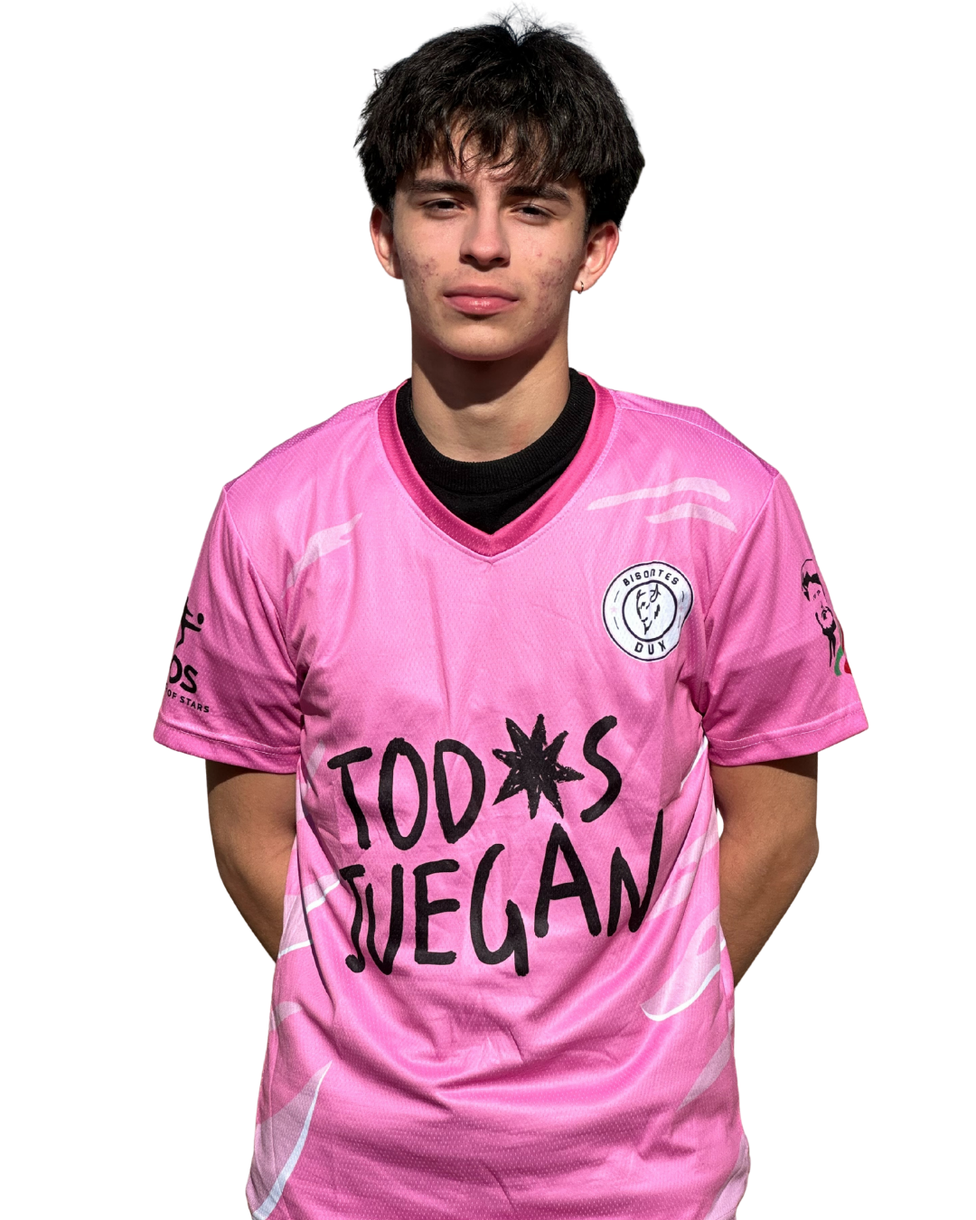
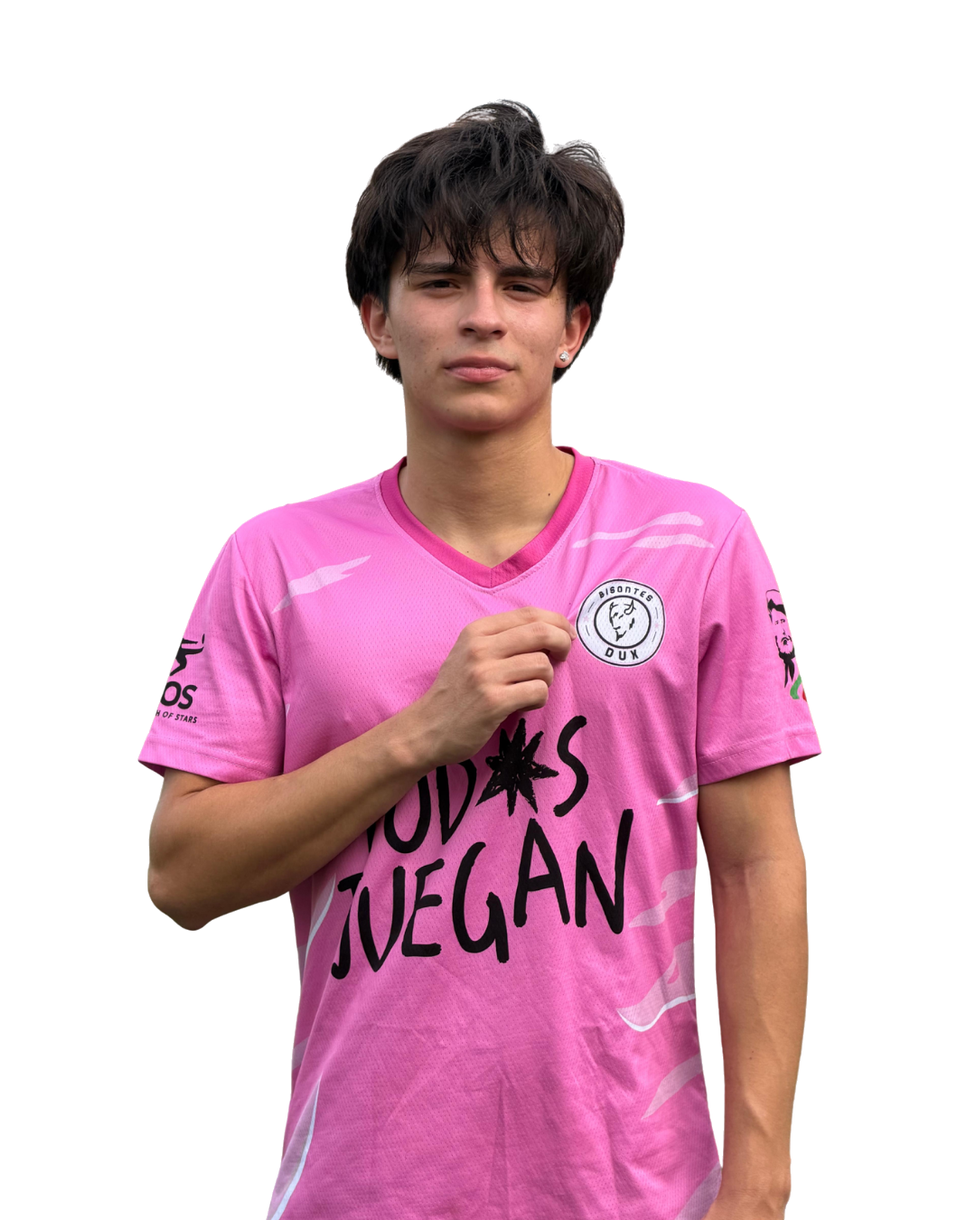
web: fotos nuevas de los dorsales 7, 11, 17, 42, 67 y 69
Fondo blanco convertido a transparente y versión WebP 720x900.

diff --git a/jugadores/dani-floria/index.html b/jugadores/dani-floria/index.html
@@ -14,19 +14,19 @@
   <meta property="og:url" content="https://urpito.github.io/BisontesDUX/jugadores/dani-floria/" />
   <meta property="og:title" content="Dani Floria - Jugador de Bisontes DUX | Perfil oficial" />
   <meta property="og:description" content="Perfil oficial de Dani Floria, jugador de Bisontes DUX. Información sobre su participación en la plantilla, posición y dorsal." />
-  <meta property="og:image" content="https://urpito.github.io/BisontesDUX/assets/logo.png" />
+  <meta property="og:image" content="https://urpito.github.io/BisontesDUX/assets/jugador42.png" />
   <meta property="og:image:alt" content="Dani Floria - Jugador de Bisontes DUX | Perfil oficial" />
   <meta name="twitter:card" content="summary_large_image" />
   <meta name="twitter:title" content="Dani Floria - Jugador de Bisontes DUX | Perfil oficial" />
   <meta name="twitter:description" content="Perfil oficial de Dani Floria, jugador de Bisontes DUX. Información sobre su participación en la plantilla, posición y dorsal." />
-  <meta name="twitter:image" content="https://urpito.github.io/BisontesDUX/assets/logo.png" />
+  <meta name="twitter:image" content="https://urpito.github.io/BisontesDUX/assets/jugador42.png" />
   <meta name="twitter:image:alt" content="Dani Floria - Jugador de Bisontes DUX | Perfil oficial" />
   <link rel="preconnect" href="https://fonts.googleapis.com" />
   <link rel="preconnect" href="https://fonts.gstatic.com" crossorigin />
   <link href="https://fonts.googleapis.com/css2?family=Archivo:wdth,wght@62..125,400..800&amp;family=Big+Shoulders+Display:wght@700;800;900&amp;display=swap" rel="stylesheet" />
   <link rel="stylesheet" href="../../css/style.css" />
   <link rel="icon" type="image/png" href="../../favicon.png" />
-  <script type="application/ld+json">{"@context":"https://schema.org","@graph":[{"@type":"ProfilePage","@id":"https://urpito.github.io/BisontesDUX/jugadores/dani-floria/#profilepage","url":"https://urpito.github.io/BisontesDUX/jugadores/dani-floria/","name":"Dani Floria - Jugador de Bisontes DUX | Perfil oficial","description":"Perfil oficial de Dani Floria, jugador de Bisontes DUX. Información sobre su participación en la plantilla, posición y dorsal.","inLanguage":"es","isPartOf":{"@id":"https://urpito.github.io/BisontesDUX/#website"},"mainEntity":{"@id":"https://urpito.github.io/BisontesDUX/jugadores/dani-floria/#person"},"breadcrumb":{"@id":"https://urpito.github.io/BisontesDUX/jugadores/dani-floria/#breadcrumb"}},{"@type":"Person","@id":"https://urpito.github.io/BisontesDUX/jugadores/dani-floria/#person","name":"Dani Floria","url":"https://urpito.github.io/BisontesDUX/jugadores/dani-floria/","jobTitle":"Futbolista","description":"Dani Floria es futbolista y jugador de Bisontes DUX, club de fútbol con sede en Madrid, España. Juega como defensa central y utiliza el dorsal 42. Dani Floria forma parte de la plantilla actual de Bisontes DUX. Esta es su ficha oficial dentro del sitio web del club, donde se recoge la información pública disponible sobre el jugador.","mainEntityOfPage":{"@id":"https://urpito.github.io/BisontesDUX/jugadores/dani-floria/#profilepage"},"nationality":[{"@type":"Country","name":"España"}],"memberOf":{"@id":"https://urpito.github.io/BisontesDUX/#team","@type":"SportsTeam","name":"Bisontes DUX","sport":"Fútbol","url":"https://urpito.github.io/BisontesDUX/"}},{"@type":"BreadcrumbList","@id":"https://urpito.github.io/BisontesDUX/jugadores/dani-floria/#breadcrumb","itemListElement":[{"@type":"ListItem","position":1,"name":"Inicio","item":"https://urpito.github.io/BisontesDUX/"},{"@type":"ListItem","position":2,"name":"Plantilla","item":"https://urpito.github.io/BisontesDUX/#plantilla"},{"@type":"ListItem","position":3,"name":"Dani Floria","item":"https://urpito.github.io/BisontesDUX/jugadores/dani-floria/"}]}]}</script>
+  <script type="application/ld+json">{"@context":"https://schema.org","@graph":[{"@type":"ProfilePage","@id":"https://urpito.github.io/BisontesDUX/jugadores/dani-floria/#profilepage","url":"https://urpito.github.io/BisontesDUX/jugadores/dani-floria/","name":"Dani Floria - Jugador de Bisontes DUX | Perfil oficial","description":"Perfil oficial de Dani Floria, jugador de Bisontes DUX. Información sobre su participación en la plantilla, posición y dorsal.","inLanguage":"es","isPartOf":{"@id":"https://urpito.github.io/BisontesDUX/#website"},"mainEntity":{"@id":"https://urpito.github.io/BisontesDUX/jugadores/dani-floria/#person"},"breadcrumb":{"@id":"https://urpito.github.io/BisontesDUX/jugadores/dani-floria/#breadcrumb"}},{"@type":"Person","@id":"https://urpito.github.io/BisontesDUX/jugadores/dani-floria/#person","name":"Dani Floria","url":"https://urpito.github.io/BisontesDUX/jugadores/dani-floria/","jobTitle":"Futbolista","description":"Dani Floria es futbolista y jugador de Bisontes DUX, club de fútbol con sede en Madrid, España. Juega como defensa central y utiliza el dorsal 42. Dani Floria forma parte de la plantilla actual de Bisontes DUX. Esta es su ficha oficial dentro del sitio web del club, donde se recoge la información pública disponible sobre el jugador.","mainEntityOfPage":{"@id":"https://urpito.github.io/BisontesDUX/jugadores/dani-floria/#profilepage"},"image":"https://urpito.github.io/BisontesDUX/assets/jugador42.png","nationality":[{"@type":"Country","name":"España"}],"memberOf":{"@id":"https://urpito.github.io/BisontesDUX/#team","@type":"SportsTeam","name":"Bisontes DUX","sport":"Fútbol","url":"https://urpito.github.io/BisontesDUX/"}},{"@type":"BreadcrumbList","@id":"https://urpito.github.io/BisontesDUX/jugadores/dani-floria/#breadcrumb","itemListElement":[{"@type":"ListItem","position":1,"name":"Inicio","item":"https://urpito.github.io/BisontesDUX/"},{"@type":"ListItem","position":2,"name":"Plantilla","item":"https://urpito.github.io/BisontesDUX/#plantilla"},{"@type":"ListItem","position":3,"name":"Dani Floria","item":"https://urpito.github.io/BisontesDUX/jugadores/dani-floria/"}]}]}</script>
 </head>
 <body class="subpage-body">
   <!-- GENERATED-HEADER:START -->
@@ -53,7 +53,7 @@
   <main class="profile-page">
     <nav class="breadcrumbs" aria-label="Migas de pan"><a href="/BisontesDUX/">Inicio</a><span>/</span><a href="/BisontesDUX/#plantilla">Plantilla</a><span>/</span><span aria-current="page">Dani Floria</span></nav>
     <article class="profile-card">
-      <div class="profile-photo"><span class="profile-shirt" aria-hidden="true"><span class="profile-shirt__name">Floria</span><span class="profile-shirt__num">42</span></span><div class="profile-silhouette" role="img" aria-label="Bisontes DUX: imagen genérica para Dani Floria"><img src="/BisontesDUX/assets/logo.png" alt="" width="500" height="500" loading="lazy" decoding="async" /></div></div>
+      <div class="profile-photo"><span class="profile-shirt" aria-hidden="true"><span class="profile-shirt__name">Floria</span><span class="profile-shirt__num">42</span></span><img src="../../assets/optimized/jugador42.webp" width="720" height="900" alt="Retrato oficial de Dani Floria, defensa central de Bisontes DUX" decoding="async" fetchpriority="high" /></div>
       <div class="profile-content">
         <div class="profile-title"><h1 class="font-display">Dani Floria</h1></div>
         <p class="profile-role">defensa central · Dorsal 42</p>

diff --git a/jugadores/cristhofer/index.html b/jugadores/cristhofer/index.html
@@ -14,19 +14,19 @@
   <meta property="og:url" content="https://urpito.github.io/BisontesDUX/jugadores/cristhofer/" />
   <meta property="og:title" content="Cristhofer - Jugador de Bisontes DUX | Perfil oficial" />
   <meta property="og:description" content="Perfil oficial de Cristhofer, jugador de Bisontes DUX. Información sobre su participación en la plantilla, posición y dorsal." />
-  <meta property="og:image" content="https://urpito.github.io/BisontesDUX/assets/logo.png" />
+  <meta property="og:image" content="https://urpito.github.io/BisontesDUX/assets/jugador17.png" />
   <meta property="og:image:alt" content="Cristhofer - Jugador de Bisontes DUX | Perfil oficial" />
   <meta name="twitter:card" content="summary_large_image" />
   <meta name="twitter:title" content="Cristhofer - Jugador de Bisontes DUX | Perfil oficial" />
   <meta name="twitter:description" content="Perfil oficial de Cristhofer, jugador de Bisontes DUX. Información sobre su participación en la plantilla, posición y dorsal." />
-  <meta name="twitter:image" content="https://urpito.github.io/BisontesDUX/assets/logo.png" />
+  <meta name="twitter:image" content="https://urpito.github.io/BisontesDUX/assets/jugador17.png" />
   <meta name="twitter:image:alt" content="Cristhofer - Jugador de Bisontes DUX | Perfil oficial" />
   <link rel="preconnect" href="https://fonts.googleapis.com" />
   <link rel="preconnect" href="https://fonts.gstatic.com" crossorigin />
   <link href="https://fonts.googleapis.com/css2?family=Archivo:wdth,wght@62..125,400..800&amp;family=Big+Shoulders+Display:wght@700;800;900&amp;display=swap" rel="stylesheet" />
   <link rel="stylesheet" href="../../css/style.css" />
   <link rel="icon" type="image/png" href="../../favicon.png" />
-  <script type="application/ld+json">{"@context":"https://schema.org","@graph":[{"@type":"ProfilePage","@id":"https://urpito.github.io/BisontesDUX/jugadores/cristhofer/#profilepage","url":"https://urpito.github.io/BisontesDUX/jugadores/cristhofer/","name":"Cristhofer - Jugador de Bisontes DUX | Perfil oficial","description":"Perfil oficial de Cristhofer, jugador de Bisontes DUX. Información sobre su participación en la plantilla, posición y dorsal.","inLanguage":"es","isPartOf":{"@id":"https://urpito.github.io/BisontesDUX/#website"},"mainEntity":{"@id":"https://urpito.github.io/BisontesDUX/jugadores/cristhofer/#person"},"breadcrumb":{"@id":"https://urpito.github.io/BisontesDUX/jugadores/cristhofer/#breadcrumb"}},{"@type":"Person","@id":"https://urpito.github.io/BisontesDUX/jugadores/cristhofer/#person","name":"Cristhofer","url":"https://urpito.github.io/BisontesDUX/jugadores/cristhofer/","jobTitle":"Futbolista","description":"Cristhofer es futbolista y jugador de Bisontes DUX, club de fútbol con sede en Madrid, España. Juega como extremo derecho y utiliza el dorsal 17. Cristhofer forma parte de la plantilla actual de Bisontes DUX. Esta es su ficha oficial dentro del sitio web del club, donde se recoge la información pública disponible sobre el jugador.","mainEntityOfPage":{"@id":"https://urpito.github.io/BisontesDUX/jugadores/cristhofer/#profilepage"},"memberOf":{"@id":"https://urpito.github.io/BisontesDUX/#team","@type":"SportsTeam","name":"Bisontes DUX","sport":"Fútbol","url":"https://urpito.github.io/BisontesDUX/"}},{"@type":"BreadcrumbList","@id":"https://urpito.github.io/BisontesDUX/jugadores/cristhofer/#breadcrumb","itemListElement":[{"@type":"ListItem","position":1,"name":"Inicio","item":"https://urpito.github.io/BisontesDUX/"},{"@type":"ListItem","position":2,"name":"Plantilla","item":"https://urpito.github.io/BisontesDUX/#plantilla"},{"@type":"ListItem","position":3,"name":"Cristhofer","item":"https://urpito.github.io/BisontesDUX/jugadores/cristhofer/"}]}]}</script>
+  <script type="application/ld+json">{"@context":"https://schema.org","@graph":[{"@type":"ProfilePage","@id":"https://urpito.github.io/BisontesDUX/jugadores/cristhofer/#profilepage","url":"https://urpito.github.io/BisontesDUX/jugadores/cristhofer/","name":"Cristhofer - Jugador de Bisontes DUX | Perfil oficial","description":"Perfil oficial de Cristhofer, jugador de Bisontes DUX. Información sobre su participación en la plantilla, posición y dorsal.","inLanguage":"es","isPartOf":{"@id":"https://urpito.github.io/BisontesDUX/#website"},"mainEntity":{"@id":"https://urpito.github.io/BisontesDUX/jugadores/cristhofer/#person"},"breadcrumb":{"@id":"https://urpito.github.io/BisontesDUX/jugadores/cristhofer/#breadcrumb"}},{"@type":"Person","@id":"https://urpito.github.io/BisontesDUX/jugadores/cristhofer/#person","name":"Cristhofer","url":"https://urpito.github.io/BisontesDUX/jugadores/cristhofer/","jobTitle":"Futbolista","description":"Cristhofer es futbolista y jugador de Bisontes DUX, club de fútbol con sede en Madrid, España. Juega como extremo derecho y utiliza el dorsal 17. Cristhofer forma parte de la plantilla actual de Bisontes DUX. Esta es su ficha oficial dentro del sitio web del club, donde se recoge la información pública disponible sobre el jugador.","mainEntityOfPage":{"@id":"https://urpito.github.io/BisontesDUX/jugadores/cristhofer/#profilepage"},"image":"https://urpito.github.io/BisontesDUX/assets/jugador17.png","memberOf":{"@id":"https://urpito.github.io/BisontesDUX/#team","@type":"SportsTeam","name":"Bisontes DUX","sport":"Fútbol","url":"https://urpito.github.io/BisontesDUX/"}},{"@type":"BreadcrumbList","@id":"https://urpito.github.io/BisontesDUX/jugadores/cristhofer/#breadcrumb","itemListElement":[{"@type":"ListItem","position":1,"name":"Inicio","item":"https://urpito.github.io/BisontesDUX/"},{"@type":"ListItem","position":2,"name":"Plantilla","item":"https://urpito.github.io/BisontesDUX/#plantilla"},{"@type":"ListItem","position":3,"name":"Cristhofer","item":"https://urpito.github.io/BisontesDUX/jugadores/cristhofer/"}]}]}</script>
 </head>
 <body class="subpage-body">
   <!-- GENERATED-HEADER:START -->
@@ -53,7 +53,7 @@
   <main class="profile-page">
     <nav class="breadcrumbs" aria-label="Migas de pan"><a href="/BisontesDUX/">Inicio</a><span>/</span><a href="/BisontesDUX/#plantilla">Plantilla</a><span>/</span><span aria-current="page">Cristhofer</span></nav>
     <article class="profile-card">
-      <div class="profile-photo"><span class="profile-shirt" aria-hidden="true"><span class="profile-shirt__name">Cristhofer</span><span class="profile-shirt__num">17</span></span><div class="profile-silhouette" role="img" aria-label="Bisontes DUX: imagen genérica para Cristhofer"><img src="/BisontesDUX/assets/logo.png" alt="" width="500" height="500" loading="lazy" decoding="async" /></div></div>
+      <div class="profile-photo"><span class="profile-shirt" aria-hidden="true"><span class="profile-shirt__name">Cristhofer</span><span class="profile-shirt__num">17</span></span><img src="../../assets/optimized/jugador17.webp" width="720" height="900" alt="Retrato oficial de Cristhofer, extremo derecho de Bisontes DUX" decoding="async" fetchpriority="high" /></div>
       <div class="profile-content">
         <div class="profile-title"><h1 class="font-display">Cristhofer</h1></div>
         <p class="profile-role">extremo derecho · Dorsal 17</p>

diff --git a/jugadores/mateo/index.html b/jugadores/mateo/index.html
@@ -14,19 +14,19 @@
   <meta property="og:url" content="https://urpito.github.io/BisontesDUX/jugadores/mateo/" />
   <meta property="og:title" content="Mateo - Jugador de Bisontes DUX | Perfil oficial" />
   <meta property="og:description" content="Perfil oficial de Mateo, jugador de Bisontes DUX. Información sobre su participación en la plantilla, posición y dorsal." />
-  <meta property="og:image" content="https://urpito.github.io/BisontesDUX/assets/logo.png" />
+  <meta property="og:image" content="https://urpito.github.io/BisontesDUX/assets/jugador69.png" />
   <meta property="og:image:alt" content="Mateo - Jugador de Bisontes DUX | Perfil oficial" />
   <meta name="twitter:card" content="summary_large_image" />
   <meta name="twitter:title" content="Mateo - Jugador de Bisontes DUX | Perfil oficial" />
   <meta name="twitter:description" content="Perfil oficial de Mateo, jugador de Bisontes DUX. Información sobre su participación en la plantilla, posición y dorsal." />
-  <meta name="twitter:image" content="https://urpito.github.io/BisontesDUX/assets/logo.png" />
+  <meta name="twitter:image" content="https://urpito.github.io/BisontesDUX/assets/jugador69.png" />
   <meta name="twitter:image:alt" content="Mateo - Jugador de Bisontes DUX | Perfil oficial" />
   <link rel="preconnect" href="https://fonts.googleapis.com" />
   <link rel="preconnect" href="https://fonts.gstatic.com" crossorigin />
   <link href="https://fonts.googleapis.com/css2?family=Archivo:wdth,wght@62..125,400..800&amp;family=Big+Shoulders+Display:wght@700;800;900&amp;display=swap" rel="stylesheet" />
   <link rel="stylesheet" href="../../css/style.css" />
   <link rel="icon" type="image/png" href="../../favicon.png" />
-  <script type="application/ld+json">{"@context":"https://schema.org","@graph":[{"@type":"ProfilePage","@id":"https://urpito.github.io/BisontesDUX/jugadores/mateo/#profilepage","url":"https://urpito.github.io/BisontesDUX/jugadores/mateo/","name":"Mateo - Jugador de Bisontes DUX | Perfil oficial","description":"Perfil oficial de Mateo, jugador de Bisontes DUX. Información sobre su participación en la plantilla, posición y dorsal.","inLanguage":"es","isPartOf":{"@id":"https://urpito.github.io/BisontesDUX/#website"},"mainEntity":{"@id":"https://urpito.github.io/BisontesDUX/jugadores/mateo/#person"},"breadcrumb":{"@id":"https://urpito.github.io/BisontesDUX/jugadores/mateo/#breadcrumb"}},{"@type":"Person","@id":"https://urpito.github.io/BisontesDUX/jugadores/mateo/#person","name":"Mateo","url":"https://urpito.github.io/BisontesDUX/jugadores/mateo/","jobTitle":"Futbolista","description":"Mateo es futbolista y jugador de Bisontes DUX, club de fútbol con sede en Madrid, España. Juega como extremo derecho y utiliza el dorsal 69. Mateo forma parte de la plantilla actual de Bisontes DUX. Esta es su ficha oficial dentro del sitio web del club, donde se recoge la información pública disponible sobre el jugador.","mainEntityOfPage":{"@id":"https://urpito.github.io/BisontesDUX/jugadores/mateo/#profilepage"},"nationality":[{"@type":"Country","name":"España"}],"memberOf":{"@id":"https://urpito.github.io/BisontesDUX/#team","@type":"SportsTeam","name":"Bisontes DUX","sport":"Fútbol","url":"https://urpito.github.io/BisontesDUX/"}},{"@type":"BreadcrumbList","@id":"https://urpito.github.io/BisontesDUX/jugadores/mateo/#breadcrumb","itemListElement":[{"@type":"ListItem","position":1,"name":"Inicio","item":"https://urpito.github.io/BisontesDUX/"},{"@type":"ListItem","position":2,"name":"Plantilla","item":"https://urpito.github.io/BisontesDUX/#plantilla"},{"@type":"ListItem","position":3,"name":"Mateo","item":"https://urpito.github.io/BisontesDUX/jugadores/mateo/"}]}]}</script>
+  <script type="application/ld+json">{"@context":"https://schema.org","@graph":[{"@type":"ProfilePage","@id":"https://urpito.github.io/BisontesDUX/jugadores/mateo/#profilepage","url":"https://urpito.github.io/BisontesDUX/jugadores/mateo/","name":"Mateo - Jugador de Bisontes DUX | Perfil oficial","description":"Perfil oficial de Mateo, jugador de Bisontes DUX. Información sobre su participación en la plantilla, posición y dorsal.","inLanguage":"es","isPartOf":{"@id":"https://urpito.github.io/BisontesDUX/#website"},"mainEntity":{"@id":"https://urpito.github.io/BisontesDUX/jugadores/mateo/#person"},"breadcrumb":{"@id":"https://urpito.github.io/BisontesDUX/jugadores/mateo/#breadcrumb"}},{"@type":"Person","@id":"https://urpito.github.io/BisontesDUX/jugadores/mateo/#person","name":"Mateo","url":"https://urpito.github.io/BisontesDUX/jugadores/mateo/","jobTitle":"Futbolista","description":"Mateo es futbolista y jugador de Bisontes DUX, club de fútbol con sede en Madrid, España. Juega como extremo derecho y utiliza el dorsal 69. Mateo forma parte de la plantilla actual de Bisontes DUX. Esta es su ficha oficial dentro del sitio web del club, donde se recoge la información pública disponible sobre el jugador.","mainEntityOfPage":{"@id":"https://urpito.github.io/BisontesDUX/jugadores/mateo/#profilepage"},"image":"https://urpito.github.io/BisontesDUX/assets/jugador69.png","nationality":[{"@type":"Country","name":"España"}],"memberOf":{"@id":"https://urpito.github.io/BisontesDUX/#team","@type":"SportsTeam","name":"Bisontes DUX","sport":"Fútbol","url":"https://urpito.github.io/BisontesDUX/"}},{"@type":"BreadcrumbList","@id":"https://urpito.github.io/BisontesDUX/jugadores/mateo/#breadcrumb","itemListElement":[{"@type":"ListItem","position":1,"name":"Inicio","item":"https://urpito.github.io/BisontesDUX/"},{"@type":"ListItem","position":2,"name":"Plantilla","item":"https://urpito.github.io/BisontesDUX/#plantilla"},{"@type":"ListItem","position":3,"name":"Mateo","item":"https://urpito.github.io/BisontesDUX/jugadores/mateo/"}]}]}</script>
 </head>
 <body class="subpage-body">
   <!-- GENERATED-HEADER:START -->
@@ -53,7 +53,7 @@
   <main class="profile-page">
     <nav class="breadcrumbs" aria-label="Migas de pan"><a href="/BisontesDUX/">Inicio</a><span>/</span><a href="/BisontesDUX/#plantilla">Plantilla</a><span>/</span><span aria-current="page">Mateo</span></nav>
     <article class="profile-card">
-      <div class="profile-photo"><span class="profile-shirt" aria-hidden="true"><span class="profile-shirt__name">Mateo</span><span class="profile-shirt__num">69</span></span><div class="profile-silhouette" role="img" aria-label="Bisontes DUX: imagen genérica para Mateo"><img src="/BisontesDUX/assets/logo.png" alt="" width="500" height="500" loading="lazy" decoding="async" /></div></div>
+      <div class="profile-photo"><span class="profile-shirt" aria-hidden="true"><span class="profile-shirt__name">Mateo</span><span class="profile-shirt__num">69</span></span><img src="../../assets/optimized/jugador69.webp" width="720" height="900" alt="Retrato oficial de Mateo, extremo derecho de Bisontes DUX" decoding="async" fetchpriority="high" /></div>
       <div class="profile-content">
         <div class="profile-title"><h1 class="font-display">Mateo</h1></div>
         <p class="profile-role">extremo derecho · Dorsal 69</p>

diff --git a/jugadores/santi/index.html b/jugadores/santi/index.html
@@ -14,19 +14,19 @@
   <meta property="og:url" content="https://urpito.github.io/BisontesDUX/jugadores/santi/" />
   <meta property="og:title" content="Santi - Jugador de Bisontes DUX | Perfil oficial" />
   <meta property="og:description" content="Perfil oficial de Santi, jugador de Bisontes DUX. Información sobre su participación en la plantilla, posición y dorsal." />
-  <meta property="og:image" content="https://urpito.github.io/BisontesDUX/assets/logo.png" />
+  <meta property="og:image" content="https://urpito.github.io/BisontesDUX/assets/jugador67.png" />
   <meta property="og:image:alt" content="Santi - Jugador de Bisontes DUX | Perfil oficial" />
   <meta name="twitter:card" content="summary_large_image" />
   <meta name="twitter:title" content="Santi - Jugador de Bisontes DUX | Perfil oficial" />
   <meta name="twitter:description" content="Perfil oficial de Santi, jugador de Bisontes DUX. Información sobre su participación en la plantilla, posición y dorsal." />
-  <meta name="twitter:image" content="https://urpito.github.io/BisontesDUX/assets/logo.png" />
+  <meta name="twitter:image" content="https://urpito.github.io/BisontesDUX/assets/jugador67.png" />
   <meta name="twitter:image:alt" content="Santi - Jugador de Bisontes DUX | Perfil oficial" />
   <link rel="preconnect" href="https://fonts.googleapis.com" />
   <link rel="preconnect" href="https://fonts.gstatic.com" crossorigin />
   <link href="https://fonts.googleapis.com/css2?family=Archivo:wdth,wght@62..125,400..800&amp;family=Big+Shoulders+Display:wght@700;800;900&amp;display=swap" rel="stylesheet" />
   <link rel="stylesheet" href="../../css/style.css" />
   <link rel="icon" type="image/png" href="../../favicon.png" />
-  <script type="application/ld+json">{"@context":"https://schema.org","@graph":[{"@type":"ProfilePage","@id":"https://urpito.github.io/BisontesDUX/jugadores/santi/#profilepage","url":"https://urpito.github.io/BisontesDUX/jugadores/santi/","name":"Santi - Jugador de Bisontes DUX | Perfil oficial","description":"Perfil oficial de Santi, jugador de Bisontes DUX. Información sobre su participación en la plantilla, posición y dorsal.","inLanguage":"es","isPartOf":{"@id":"https://urpito.github.io/BisontesDUX/#website"},"mainEntity":{"@id":"https://urpito.github.io/BisontesDUX/jugadores/santi/#person"},"breadcrumb":{"@id":"https://urpito.github.io/BisontesDUX/jugadores/santi/#breadcrumb"}},{"@type":"Person","@id":"https://urpito.github.io/BisontesDUX/jugadores/santi/#person","name":"Santi","url":"https://urpito.github.io/BisontesDUX/jugadores/santi/","jobTitle":"Futbolista","description":"Santi es futbolista y jugador de Bisontes DUX, club de fútbol con sede en Madrid, España. Juega como mediocentro y utiliza el dorsal 67. Santi forma parte de la plantilla actual de Bisontes DUX. Esta es su ficha oficial dentro del sitio web del club, donde se recoge la información pública disponible sobre el jugador.","mainEntityOfPage":{"@id":"https://urpito.github.io/BisontesDUX/jugadores/santi/#profilepage"},"nationality":[{"@type":"Country","name":"España"}],"memberOf":{"@id":"https://urpito.github.io/BisontesDUX/#team","@type":"SportsTeam","name":"Bisontes DUX","sport":"Fútbol","url":"https://urpito.github.io/BisontesDUX/"}},{"@type":"BreadcrumbList","@id":"https://urpito.github.io/BisontesDUX/jugadores/santi/#breadcrumb","itemListElement":[{"@type":"ListItem","position":1,"name":"Inicio","item":"https://urpito.github.io/BisontesDUX/"},{"@type":"ListItem","position":2,"name":"Plantilla","item":"https://urpito.github.io/BisontesDUX/#plantilla"},{"@type":"ListItem","position":3,"name":"Santi","item":"https://urpito.github.io/BisontesDUX/jugadores/santi/"}]}]}</script>
+  <script type="application/ld+json">{"@context":"https://schema.org","@graph":[{"@type":"ProfilePage","@id":"https://urpito.github.io/BisontesDUX/jugadores/santi/#profilepage","url":"https://urpito.github.io/BisontesDUX/jugadores/santi/","name":"Santi - Jugador de Bisontes DUX | Perfil oficial","description":"Perfil oficial de Santi, jugador de Bisontes DUX. Información sobre su participación en la plantilla, posición y dorsal.","inLanguage":"es","isPartOf":{"@id":"https://urpito.github.io/BisontesDUX/#website"},"mainEntity":{"@id":"https://urpito.github.io/BisontesDUX/jugadores/santi/#person"},"breadcrumb":{"@id":"https://urpito.github.io/BisontesDUX/jugadores/santi/#breadcrumb"}},{"@type":"Person","@id":"https://urpito.github.io/BisontesDUX/jugadores/santi/#person","name":"Santi","url":"https://urpito.github.io/BisontesDUX/jugadores/santi/","jobTitle":"Futbolista","description":"Santi es futbolista y jugador de Bisontes DUX, club de fútbol con sede en Madrid, España. Juega como mediocentro y utiliza el dorsal 67. Santi forma parte de la plantilla actual de Bisontes DUX. Esta es su ficha oficial dentro del sitio web del club, donde se recoge la información pública disponible sobre el jugador.","mainEntityOfPage":{"@id":"https://urpito.github.io/BisontesDUX/jugadores/santi/#profilepage"},"image":"https://urpito.github.io/BisontesDUX/assets/jugador67.png","nationality":[{"@type":"Country","name":"España"}],"memberOf":{"@id":"https://urpito.github.io/BisontesDUX/#team","@type":"SportsTeam","name":"Bisontes DUX","sport":"Fútbol","url":"https://urpito.github.io/BisontesDUX/"}},{"@type":"BreadcrumbList","@id":"https://urpito.github.io/BisontesDUX/jugadores/santi/#breadcrumb","itemListElement":[{"@type":"ListItem","position":1,"name":"Inicio","item":"https://urpito.github.io/BisontesDUX/"},{"@type":"ListItem","position":2,"name":"Plantilla","item":"https://urpito.github.io/BisontesDUX/#plantilla"},{"@type":"ListItem","position":3,"name":"Santi","item":"https://urpito.github.io/BisontesDUX/jugadores/santi/"}]}]}</script>
 </head>
 <body class="subpage-body">
   <!-- GENERATED-HEADER:START -->
@@ -53,7 +53,7 @@
   <main class="profile-page">
     <nav class="breadcrumbs" aria-label="Migas de pan"><a href="/BisontesDUX/">Inicio</a><span>/</span><a href="/BisontesDUX/#plantilla">Plantilla</a><span>/</span><span aria-current="page">Santi</span></nav>
     <article class="profile-card">
-      <div class="profile-photo"><span class="profile-shirt" aria-hidden="true"><span class="profile-shirt__name">Santi</span><span class="profile-shirt__num">67</span></span><div class="profile-silhouette" role="img" aria-label="Bisontes DUX: imagen genérica para Santi"><img src="/BisontesDUX/assets/logo.png" alt="" width="500" height="500" loading="lazy" decoding="async" /></div></div>
+      <div class="profile-photo"><span class="profile-shirt" aria-hidden="true"><span class="profile-shirt__name">Santi</span><span class="profile-shirt__num">67</span></span><img src="../../assets/optimized/jugador67.webp" width="720" height="900" alt="Retrato oficial de Santi, mediocentro de Bisontes DUX" decoding="async" fetchpriority="high" /></div>
       <div class="profile-content">
         <div class="profile-title"><h1 class="font-display">Santi</h1></div>
         <p class="profile-role">mediocentro · Dorsal 67</p>

diff --git a/index.html b/index.html
@@ -146,8 +146,12 @@
       <button type="button" class="dorsal-strip__btn" aria-pressed="true" data-name="Filip Tekiela" data-shirt="Tekiela" data-num="10" data-pos="delantero centro" data-photo="/BisontesDUX/assets/optimized/jugador10.webp" data-url="/BisontesDUX/jugadores/filip-tekiela/" aria-label="Filip Tekiela, dorsal 10">10</button>
       <button type="button" class="dorsal-strip__btn" aria-pressed="false" data-name="Luis Salas" data-shirt="Salas" data-num="11" data-pos="extremo derecho" data-photo="/BisontesDUX/assets/optimized/jugador11.webp" data-url="/BisontesDUX/jugadores/luis-salas/" aria-label="Luis Salas, dorsal 11">11</button>
       <button type="button" class="dorsal-strip__btn" aria-pressed="false" data-name="Arturo Constantine" data-shirt="Arturito" data-num="15" data-pos="extremo izquierdo" data-photo="/BisontesDUX/assets/optimized/jugador15.webp" data-url="/BisontesDUX/jugadores/arturo-constantine/" aria-label="Arturo Constantine, dorsal 15">15</button>
+      <button type="button" class="dorsal-strip__btn" aria-pressed="false" data-name="Cristhofer" data-shirt="Cristhofer" data-num="17" data-pos="extremo derecho" data-photo="/BisontesDUX/assets/optimized/jugador17.webp" data-url="/BisontesDUX/jugadores/cristhofer/" aria-label="Cristhofer, dorsal 17">17</button>
       <button type="button" class="dorsal-strip__btn" aria-pressed="false" data-name="Elías Naharro" data-shirt="Naharro" data-num="21" data-pos="lateral izquierdo" data-photo="/BisontesDUX/assets/optimized/jugador21.webp" data-url="/BisontesDUX/jugadores/elias-naharro/" aria-label="Elías Naharro, dorsal 21">21</button>
       <button type="button" class="dorsal-strip__btn" aria-pressed="false" data-name="Francisco Daza" data-shirt="Daza" data-num="25" data-pos="defensa central" data-photo="/BisontesDUX/assets/optimized/jugador25.webp" data-url="/BisontesDUX/jugadores/francisco-daza/" aria-label="Francisco Daza, dorsal 25">25</button>
+      <button type="button" class="dorsal-strip__btn" aria-pressed="false" data-name="Dani Floria" data-shirt="Floria" data-num="42" data-pos="defensa central" data-photo="/BisontesDUX/assets/optimized/jugador42.webp" data-url="/BisontesDUX/jugadores/dani-floria/" aria-label="Dani Floria, dorsal 42">42</button>
+      <button type="button" class="dorsal-strip__btn" aria-pressed="false" data-name="Santi" data-shirt="Santi" data-num="67" data-pos="mediocentro" data-photo="/BisontesDUX/assets/optimized/jugador67.webp" data-url="/BisontesDUX/jugadores/santi/" aria-label="Santi, dorsal 67">67</button>
+      <button type="button" class="dorsal-strip__btn" aria-pressed="false" data-name="Mateo" data-shirt="Mateo" data-num="69" data-pos="extremo derecho" data-photo="/BisontesDUX/assets/optimized/jugador69.webp" data-url="/BisontesDUX/jugadores/mateo/" aria-label="Mateo, dorsal 69">69</button>
       <button type="button" class="dorsal-strip__btn" aria-pressed="false" data-name="Diego Arrufat" data-shirt="Arrufat" data-num="99" data-pos="mediocentro ofensivo" data-photo="/BisontesDUX/assets/optimized/jugador99.webp" data-url="/BisontesDUX/jugadores/diego-arrufat/" aria-label="Diego Arrufat, dorsal 99">99</button>
     </div>
   </div>
@@ -402,7 +406,7 @@
   </a>
 <a class="player-card" href="/BisontesDUX/jugadores/cristhofer/" data-group="delanteros" data-track="player_card_click" data-player="Cristhofer">
     <div class="player-card__img-wrap">
-      <div class="player-card__silhouette player-card__silhouette--visible" aria-hidden="true"><img src="/BisontesDUX/assets/logo.png" alt="" width="500" height="500" loading="lazy" decoding="async" /></div>
+      <img src="/BisontesDUX/assets/optimized/jugador17.webp" alt="Retrato de Cristhofer, extremo derecho de Bisontes DUX" class="player-card__photo" width="720" height="900" loading="lazy" decoding="async" />
       <span class="player-card__dorsal" aria-hidden="true">17</span>
       
     </div>
@@ -486,7 +490,7 @@
   </a>
 <a class="player-card" href="/BisontesDUX/jugadores/dani-floria/" data-group="defensas" data-track="player_card_click" data-player="Dani Floria">
     <div class="player-card__img-wrap">
-      <div class="player-card__silhouette player-card__silhouette--visible" aria-hidden="true"><img src="/BisontesDUX/assets/logo.png" alt="" width="500" height="500" loading="lazy" decoding="async" /></div>
+      <img src="/BisontesDUX/assets/optimized/jugador42.webp" alt="Retrato de Dani Floria, defensa central de Bisontes DUX" class="player-card__photo" width="720" height="900" loading="lazy" decoding="async" />
       <span class="player-card__dorsal" aria-hidden="true">42</span>
       
     </div>
@@ -498,7 +502,7 @@
   </a>
 <a class="player-card" href="/BisontesDUX/jugadores/santi/" data-group="centrocampistas" data-track="player_card_click" data-player="Santi">
     <div class="player-card__img-wrap">
-      <div class="player-card__silhouette player-card__silhouette--visible" aria-hidden="true"><img src="/BisontesDUX/assets/logo.png" alt="" width="500" height="500" loading="lazy" decoding="async" /></div>
+      <img src="/BisontesDUX/assets/optimized/jugador67.webp" alt="Retrato de Santi, mediocentro de Bisontes DUX" class="player-card__photo" width="720" height="900" loading="lazy" decoding="async" />
       <span class="player-card__dorsal" aria-hidden="true">67</span>
       
     </div>
@@ -510,7 +514,7 @@
   </a>
 <a class="player-card" href="/BisontesDUX/jugadores/mateo/" data-group="delanteros" data-track="player_card_click" data-player="Mateo">
     <div class="player-card__img-wrap">
-      <div class="player-card__silhouette player-card__silhouette--visible" aria-hidden="true"><img src="/BisontesDUX/assets/logo.png" alt="" width="500" height="500" loading="lazy" decoding="async" /></div>
+      <img src="/BisontesDUX/assets/optimized/jugador69.webp" alt="Retrato de Mateo, extremo derecho de Bisontes DUX" class="player-card__photo" width="720" height="900" loading="lazy" decoding="async" />
       <span class="player-card__dorsal" aria-hidden="true">69</span>
       
     </div>
